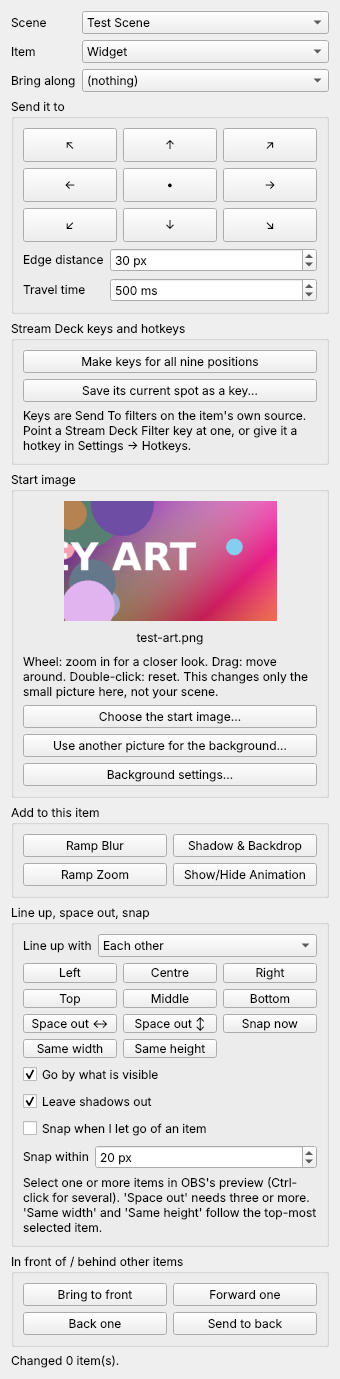
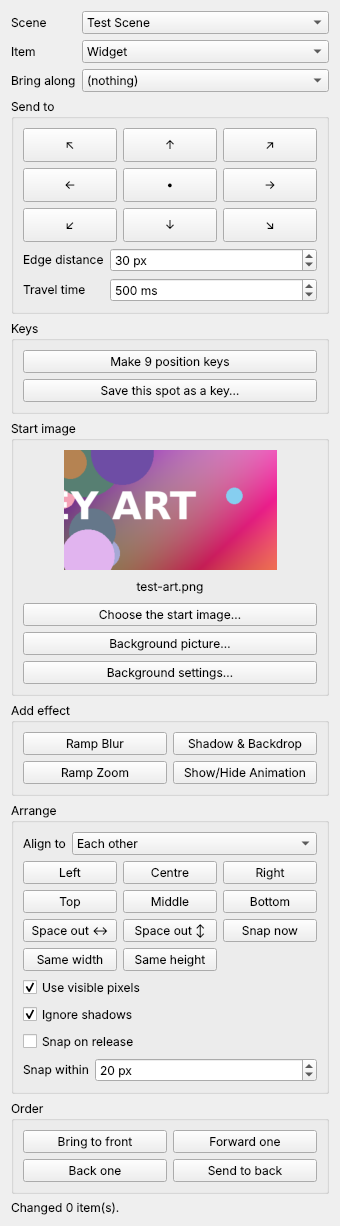
Dock: explanations move to tooltips, labels shortened
Also: the load check loads every stock plugin present, and the rebuild
generator can leave show/hide fades off for bisecting a crash.

Claude-Session: https://claude.ai/code/session_01AkZzWGBxMrGHVePemUnc9z

Changed region(s): [[0.0294, 0.0, 0.9706, 0.9918]]

diff --git a/src/dock/stagekit-dock.cpp b/src/dock/stagekit-dock.cpp
@@ -184,11 +184,10 @@ public:
 			if (ok && !name.trimmed().isEmpty())
 				save_spot_as(name.trimmed());
 		});
-		auto *keys_hint = new QLabel(tr_text("Dock.KeysHint"), keys_box);
-		keys_hint->setWordWrap(true);
+		// Explanations live in tooltips: the dock itself stays short.
+		keys_box->setToolTip(tr_text("Dock.KeysHint"));
 		keys_layout->addWidget(make_keys);
 		keys_layout->addWidget(save_spot);
-		keys_layout->addWidget(keys_hint);
 		layout->addWidget(keys_box);
 
 		// The start image: chosen here, shown by the Start Image source and
@@ -238,8 +237,6 @@ public:
 				refresh();
 			}
 		});
-		auto *thumb_hint = new QLabel(tr_text("Dock.ThumbHint"), start_box);
-		thumb_hint->setWordWrap(true);
 		// The moving background uses the start image unless it is given a
 		// picture of its own here.
 		auto *other = new QPushButton(tr_text("Dock.BackgroundOther"), start_box);
@@ -270,7 +267,6 @@ public:
 				 [this] { open_background_settings(); });
 		start_layout->addWidget(start_thumb_);
 		start_layout->addWidget(start_label_);
-		start_layout->addWidget(thumb_hint);
 		start_layout->addWidget(choose);
 		start_layout->addWidget(other);
 		start_layout->addWidget(background_same_);
@@ -392,9 +388,7 @@ public:
 		arrange_layout->addWidget(no_shadow_);
 		arrange_layout->addWidget(live_snap_);
 		arrange_layout->addLayout(within_row);
-		auto *arrange_hint = new QLabel(tr_text("Arrange.Hint"), arrange_box);
-		arrange_hint->setWordWrap(true);
-		arrange_layout->addWidget(arrange_hint);
+		arrange_box->setToolTip(tr_text("Arrange.Hint"));
 		layout->addWidget(arrange_box);
 
 		// Snapping on letting go: watch the selected items a few times a second.
@@ -463,7 +457,7 @@ public:
 					reader.setScaledSize(size.scaled(1280, 720, Qt::KeepAspectRatio));
 				thumb_full_ = QPixmap::fromImageReader(&reader);
 			}
-			start_thumb_->setToolTip(shown);
+			start_thumb_->setToolTip(tr_text("Dock.ThumbHint") + QStringLiteral("\n") + shown);
 			show_thumb();
 		}
 		follow_selection();

diff --git a/scripts/rebuild-collection.py b/scripts/rebuild-collection.py
@@ -9,6 +9,7 @@ Usage: python3 -I rebuild.py <original.json> <output.json> <report.txt>
 """
 import copy
 import json
+import os
 import sys
 import uuid
 
@@ -36,6 +37,8 @@ OLD_FILTERS = {
 GAME_CAPTURES = {"Game Capture", "Windowed Game Capture"}
 # Everything under these was the hand-built blurred background.
 BACKGROUND_SCENES = ("Live Background", "Start Background Scene", "Background Scene", "Tablet Background Scene")
+# Set STAGEKIT_REBUILD_FADES=0 to leave the show/hide fades off (used to find what crashed OBS on import).
+KEEP_FADES = os.environ.get("STAGEKIT_REBUILD_FADES", "1") != "0"
 SKIP_LEAVES = {"Purple"}
 
 report = []
@@ -97,8 +100,8 @@ def item_json(name, pos, scale=(1.0, 1.0), bounds_type=0, bounds=(0.0, 0.0), bou
         "crop_right": crop[1], "crop_bottom": crop[3], "id": item_id, "group_item_backup": False,
         "scale_filter": "disable", "blend_method": "default", "blend_type": "normal",
         # The fade an item had when shown or hidden is kept.
-        "show_transition": copy.deepcopy(show) if show else {"duration": 0},
-        "hide_transition": copy.deepcopy(hide) if hide else {"duration": 0}, "private_settings": {},
+        "show_transition": copy.deepcopy(show) if show and KEEP_FADES else {"duration": 0},
+        "hide_transition": copy.deepcopy(hide) if hide and KEEP_FADES else {"duration": 0}, "private_settings": {},
     }
 
 

diff --git a/tests/collection-loadcheck.cpp b/tests/collection-loadcheck.cpp
@@ -40,7 +40,12 @@ int main(int argc, char **argv)
 	ovi.scale_type = OBS_SCALE_BICUBIC;
 	if (obs_reset_video(&ovi) != OBS_VIDEO_SUCCESS)
 		return 1;
-	load_module("/usr/lib/x86_64-linux-gnu/obs-plugins/image-source.so", "/usr/share/obs/obs-plugins/image-source");
+	// Every stock plugin this machine has, so scenes are exercised as fully as they can be here.
+	for (const char *name : {"image-source", "obs-transitions", "obs-filters", "text-freetype2", "obs-ffmpeg"}) {
+		const std::string bin = std::string("/usr/lib/x86_64-linux-gnu/obs-plugins/") + name + ".so";
+		const std::string data = std::string("/usr/share/obs/obs-plugins/") + name;
+		load_module(bin.c_str(), data.c_str());
+	}
 	if (!load_module(argv[1], argv[2]))
 		return 1;
 	obs_post_load_modules();

diff --git a/README.md b/README.md
@@ -309,28 +309,28 @@ Open it from *Docks → StageKit*. It works on the current scene (the preview sc
 - **Select an item in OBS's own preview** and the dock works on it. The *Item* list follows your
   selection; you can also choose from the list.
 - Click one of the nine positions and the item glides there.
-- *Make keys for all nine positions* adds a Send To filter for each one **to the item's own source**,
+- *Make 9 position keys* adds a Send To filter for each one **to the item's own source**,
   named after the position ("Top right"). Point a Stream Deck *Filter* key at the camera and one of
   those filters, or give it a hotkey.
-- *Save its current spot as a key* does the same for wherever the item is now: drag it where you want
+- *Save this spot as a key* does the same for wherever the item is now: drag it where you want
   it in the preview first.
 - **Start image**: a thumbnail of the picture. Turn the mouse wheel on it for a closer look, drag to
   move around, double-click to reset; this changes only the thumbnail, never your scene. The start
-  image is also the moving background's picture. *Use another picture for the background…* gives the
+  image is also the moving background's picture. *Background picture…* gives the
   background a picture of its own; *Background settings…* opens the Ambient Background's settings.
-- **Line up, space out, snap** works on the items selected in OBS's preview (Ctrl-click for several):
+- **Arrange** works on the items selected in OBS's preview (Ctrl-click for several):
   - *Left*, *Centre*, *Right*, *Top*, *Middle*, *Bottom* line them up with the screen or with each
     other.
   - *Space out ↔* and *Space out ↕* make the gaps between three or more items equal.
   - *Same width* and *Same height* resize the others to match the top-most selected item, keeping
     their shape.
   - *Snap now* moves each item the last few pixels so an edge or centre meets the screen's or another
-    item's. *Snap when I let go of an item* does that by itself after you drag one in the preview.
-  - *Go by what is visible* (on by default) measures the picture actually drawn in each item and ignores
-    the empty, see-through room around it, where OBS only knows the item's box. *Leave shadows out* keeps
+    item's. *Snap on release* does that by itself after you drag one in the preview.
+  - *Use visible pixels* (on by default) measures the picture actually drawn in each item and ignores
+    the empty, see-through room around it, where OBS only knows the item's box. *Ignore shadows* keeps
     a Shadow & Backdrop's shadow from counting as picture.
 - *Bring to front*, *Forward one*, *Back one* and *Send to back* change which items cover which.
-- *Add to this item* puts a Ramp Blur, Shadow & Backdrop, Ramp Zoom or Show/Hide Animation on the item
+- *Add effect* puts a Ramp Blur, Shadow & Backdrop, Ramp Zoom or Show/Hide Animation on the item
   and opens its filter window. Ramp Blur and Ramp Zoom are added switched off.
 - The *Scene* list reaches a scene that is not on screen.
 

diff --git a/docs/releases/0.1.0-beta26.md b/docs/releases/0.1.0-beta26.md
@@ -1,0 +1,23 @@
+# StageKit 0.1.0-beta26
+
+Twenty-sixth pre-release: a tidier dock. It passes the automated tests on Linux; **it has not been run
+in OBS on Windows yet.**
+
+## What's changed
+
+- **Less text in the dock.** The three explanatory paragraphs are gone; hover over a box or the
+  thumbnail to read them as a tooltip.
+- **Shorter labels.** For example *Make 9 position keys*, *Save this spot as a key…*, *Background
+  picture…*, *Use visible pixels*, *Ignore shadows*, *Snap on release*; the boxes are now *Send to*,
+  *Keys*, *Add effect*, *Arrange* and *Order*.
+
+Nothing works differently.
+
+## Installing on Windows
+
+Close OBS and run `stagekit-0.1.0-windows-x64-Installer.exe`. It installs over an earlier version.
+
+## Known limits
+
+- The installer and the macOS package are not signed by a publisher.
+- File names carry the base version, 0.1.0.

diff --git a/AGENTS.md b/AGENTS.md
@@ -105,6 +105,8 @@ Use clang-format 19 (`pip install clang-format==19.1.7`) and `pip install gersem
 - **Built-in emulator shapes are a starting guess, never an order.** The owner's Snes9x shows 8:7; the
   first table said 64:49 and cropped the picture. `kKnownPrograms` only seeds the held shape; what is
   seen on screen corrects it. Only a shape the owner saved, or a Picture Shape key, is obeyed blindly.
+- **The dock carries no explanatory paragraphs.** The owner wants it clean: controls and short labels
+  only. Put explanations in tooltips and the README.
 - **The dock has no picture of the scene.** One was built (drag, wheel, zoom cross) and the owner
   rejected it: they select items in OBS's own preview, and the dock must act on that selection. The
   wheel-zoom they asked for belongs to the start image thumbnail and changes only that thumbnail in

diff --git a/DEVELOPMENT_HANDOFF.md b/DEVELOPMENT_HANDOFF.md
@@ -204,6 +204,12 @@ information), which is what the template uses for pushes to `main`.
   the scene-collection rebuild. Scope: merging rebuild changes after green checks and publishing them
   as pre-releases. Not covered: a stable release, visibility or access changes, unrelated work.
 
+## Dock wording (0.1.0-beta26)
+
+The owner: "no need for all the informations verbiage in the dock. need to keep the ui clean and
+simple". The three explanatory paragraphs became tooltips and the labels were shortened. Keep the dock
+to controls and short labels; explanations go in tooltips and the README.
+
 ## Cropped View: whatever is drawn (0.1.0-beta25)
 
 The owner's music widget (Amuse Main, a web page) was cropped by hand years ago; the widget's layout
